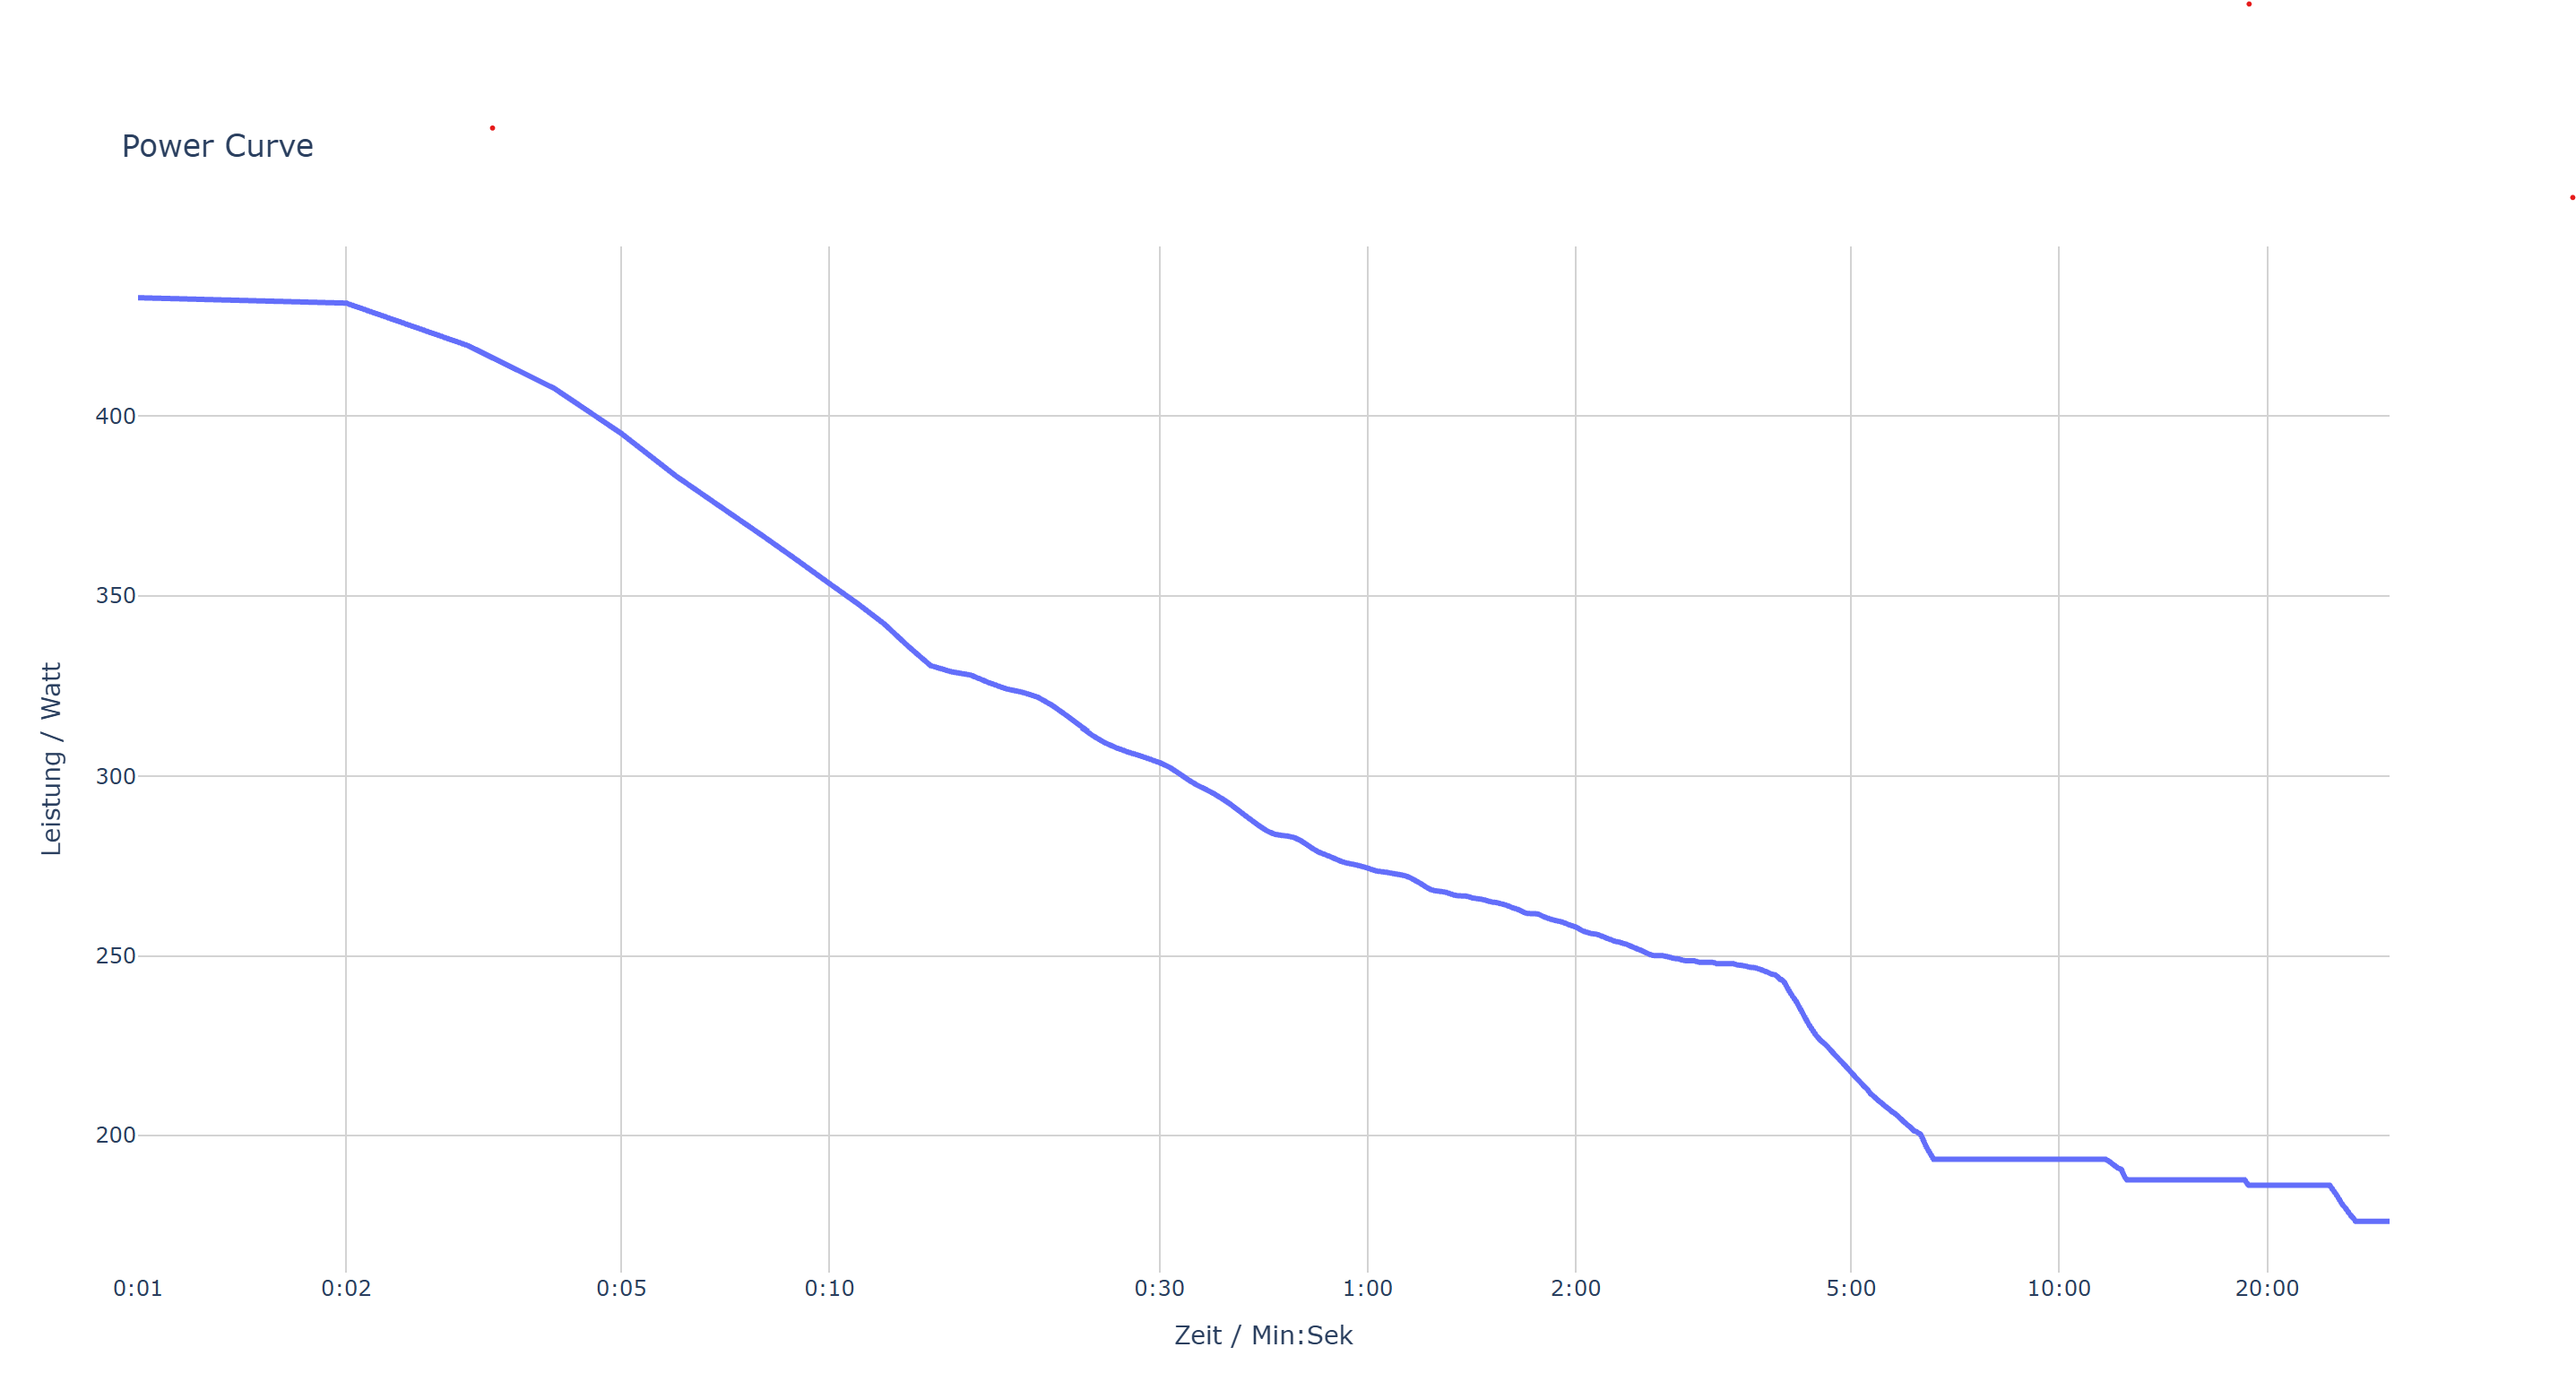
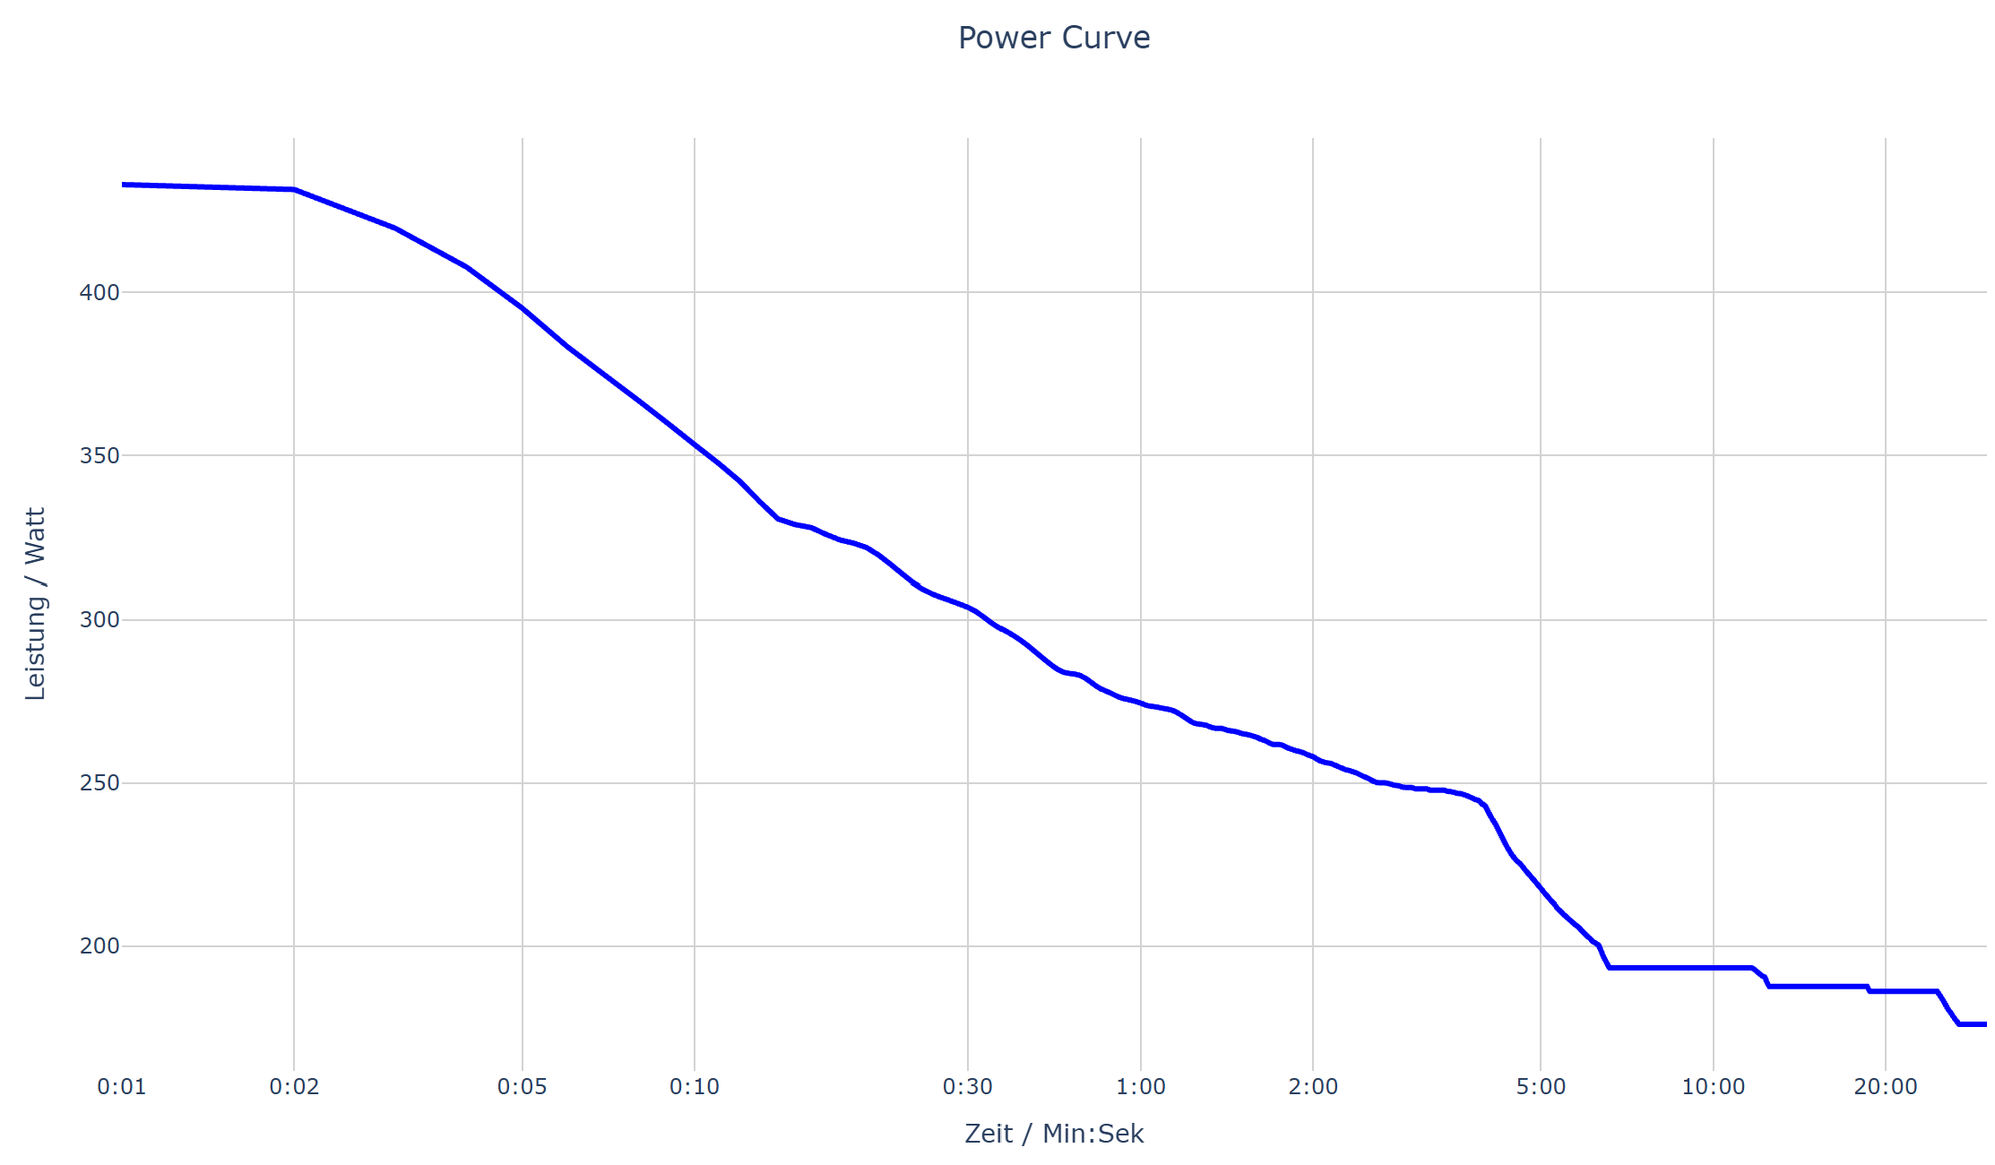
Abgabe: Leistungskurve II im main

diff --git a/advanced_power_curve.py b/advanced_power_curve.py
@@ -3,7 +3,7 @@ import pandas as pd
 import numpy as np
 import plotly.express as px
 
-def read_data():
+def read_data_for_power_curve():
     df = pd.read_csv("data/activities/activity.csv", sep=",")
     df["time in seconds"] = np.arange(len(df))
     df["time in minutes"] = df["time in seconds"]/60
@@ -73,15 +73,20 @@ def make_power_curve(df_power):
     fig.update_yaxes(
         title="Leistung / Watt",showgrid=True, gridcolor="lightgray")
 
-    fig.update_traces(line=dict(width=3))
+    fig.update_traces(line=dict(width=3, color="blue"))
 
     fig.update_layout(
-        plot_bgcolor="white", paper_bgcolor="white")
+        template="plotly_white",
+        title_x=0.5,
+        plot_bgcolor="white", paper_bgcolor="white",
+        width=1200,
+        height=700
+    )   
     return fig
 
 
 if __name__ == "__main__":
-    df = read_data()
+    df = read_data_for_power_curve()
     power_input = df["PowerOriginal"].to_numpy()
     # das .to_numpy wandelt es in ein reines numpy array um 
     # -> Funktion bekommt nicht gesamtes df, nur mehr die Zahlen daraus (macht es flexibel)

diff --git a/main.py b/main.py
@@ -1,6 +1,13 @@
+import numpy as np
+import pandas as pd
+import plotly.express as px
 import streamlit as st
-import read_data
+import read_data 
 from PIL import Image
+
+from advanced_power_curve import find_all_windows
+from advanced_power_curve import make_power_curve
+from advanced_power_curve import read_data_for_power_curve
 
 
 person_dict = read_data.load_person_data()
@@ -25,7 +32,16 @@ with col1:
 with col2:
     st.image(Image.open(picture_path), caption = current_user)
 
+#Implementierung der Power-Curve
 
+df = read_data_for_power_curve()
+power_input = df["PowerOriginal"].to_numpy()
+time_input = df["time in seconds"].to_numpy()
 
+maximal_seconds = int(time_input.max())
+window_list = np.arange(1, maximal_seconds + 1) 
 
-
+df_power = find_all_windows(power_input, time_input, window_list)
+print(df_power[df_power["best_power"].diff() > 0])
+fig = make_power_curve(df_power)
+fig.show()

diff --git a/advanced_power_curve_readme.md b/advanced_power_curve_readme.md
@@ -1,10 +1,11 @@
 This repository is used for exercise 2 - 4 of the programming lecture. This project is done by Johanna Helfer and Luisa Kneppel. 
-Zu Beginn haben wir die benötigten Pakete Numpy, Pandas und Plotly importiert.
+Zu Beginn haben wir ein neues Nebenmodul erstellt und die benötigten Pakete Numpy, Pandas und Plotly importiert.
 Die erste Funktion liest die Daten ein und fügt die Spalten „time in seconds“ sowie „time in minutes“ zum Dataframe hinzu.
-Anschließend haben wir die Funktion find_best_power definiert. Sie ist so aufgebaut, dass sie unabhängig vom DataFrame funktioniert und auch reine Serien oder numpy-Arrays annehmen kann. Damit die Funktion auch bei unregelmäßigen Zeitabständen verlässlich funktioniert, haben wir den Umrechnungsfaktor von einer Sekunde durch das pd.to_timedelta ersetzt, wodurch die Sekunden als Index gesetzt werden. Ddurch rechnet das rolling_mean nach den echten Zeitabständen und zählt nicht mehr nur die Zeilenanzahl. Die Funktion durchläuft den Datensatz und gibt für jedes Suchfenster die maximale durchschnittliche Leistung zurück.
+Anschließend haben wir die Funktion find_best_power definiert. Sie ist so aufgebaut, dass sie unabhängig vom DataFrame funktioniert und auch reine Serien oder numpy-Arrays annehmen kann. Damit die Funktion auch bei unregelmäßigen Zeitabständen verlässlich funktioniert, haben wir den Umrechnungsfaktor von einer Sekunde durch das pd.to_timedelta ersetzt, wodurch die Sekunden als Index gesetzt werden. Dadurch rechnet das rolling_mean nach den echten Zeitabständen und zählt nicht mehr nur die Zeilenanzahl. Die Funktion durchläuft den Datensatz und gibt für jedes Suchfenster die maximale durchschnittliche Leistung zurück.
 Der darauffolgenden Funktion find_all_windows() wird eine Liste von Suchfenstern übergeben. Für jedes Fenster wird die Funktion find_best_power aufgerufen und die zurückgegebene beste Leistung einer neuen Liste power_list hinzugefügt. Anschließend werden die Ergebnisse in einem DataFrame mit den Spalten „time in seconds“ und „best_power“ zusammengefasst. Um Messfehler zu minimieren, haben wir die ungültigen Werte sowie die Anstiege in der Leistungskurve mit .dropna() und .cummin() entfernt. Im Hauptmodul wird die Liste der Zeitfenster automatisch über den maximalen Wert der Sekunden erstellt, damit auch bei unregelmäßigen Abständen die korrekte Gesamtdauer genutzt wird.
 Die Funktion make_power_curve() erstellt die grafische Darstellung der Leistungskurve.
 Da die Zeitfenster von 1 Sekunde bis zu mehreren Stunden reichen, haben wir uns dazu entschlossen die x–Achse logarithmisch zu skalieren. Dadurch werden sowohl kurze als auch lange Zeitbereiche übersichtlich dargestellt. Bei der linearen Darstellung wären besonders die kurzen Zeitintervalle nur schwer lesbar. 
+Abschließend haben wir die Funktionen im Hauptmodul implementiert und die Leistungskurve erstellt.
 ![Screenshot](/Screenshot_Leistungskurve.png)
 
 
